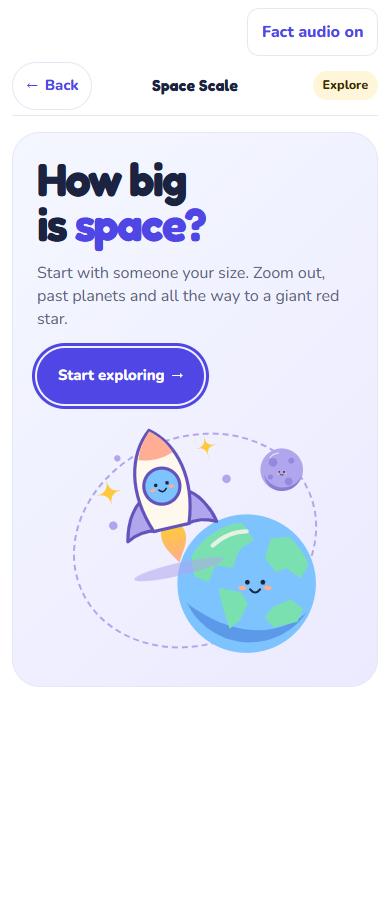
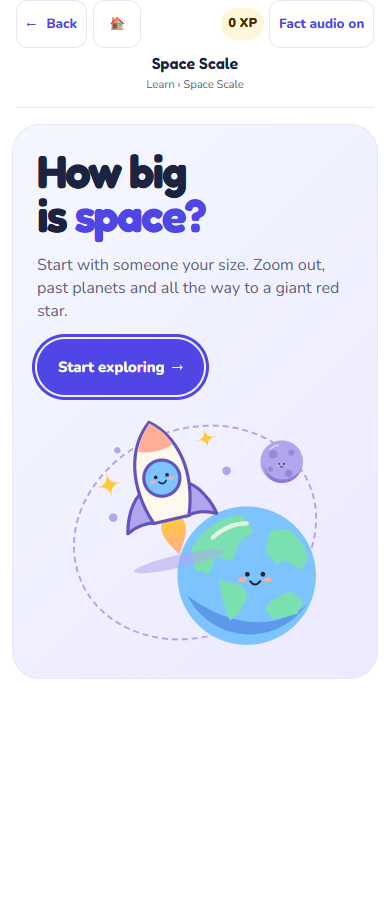
fix(flow): unify game headers and pause mission exit dialogs

diff --git a/src/screens/Mission.tsx b/src/screens/Mission.tsx
@@ -1,4 +1,4 @@
-import { useEffect, useReducer, useRef, useState } from "react";
+import { useEffect, useLayoutEffect, useReducer, useRef, useState } from "react";
 import type { Profile, TurnRequest, TurnResponse } from "../../shared/types";
 import { ActivityHeader } from "../components/ActivityHeader";
 import { Mascot } from "../components/Mascot";
@@ -22,9 +22,11 @@ interface Props {
   session: Session;
   profile: Profile;
   onFinish: (state: MissionState) => void;
+  /** Temporarily suspend play while the host confirms navigation. */
+  navigationPaused?: boolean;
 }
 
-export function Mission({ session, profile, onFinish }: Props) {
+export function Mission({ session, profile, onFinish, navigationPaused = false }: Props) {
   const [state, dispatch] = useReducer(
     (current: MissionState, action: Parameters<typeof advanceMission>[1]) => advanceMission(current, action, session),
     session, (session) => createMission(session, Date.now()),
@@ -33,7 +35,8 @@ export function Mission({ session, profile, onFinish }: Props) {
   const submittedRound = useRef(0);
   const delivered = useRef(false);
   const avatar = useRef<HTMLDivElement>(null);
-  const paused = state.pausedAt !== null;
+  const navigationOwnsPause = useRef(false);
+  const paused = navigationPaused || state.pausedAt !== null;
   const finished = state.phase === "finished";
   const task = session.tasks[state.taskIndex];
   const isHunt = session.mode === "hunt";
@@ -44,6 +47,21 @@ export function Mission({ session, profile, onFinish }: Props) {
   const running = state.phase === "round" && !paused;
   const freezeHold = task.id === "local_lava_freeze" && state.phaseEndsAt - now > state.phaseDuration - 5000;
   const choices = task.riddle;
+
+  useLayoutEffect(() => {
+    if (navigationPaused) {
+      if (state.pausedAt === null && state.phase !== "resolving" && !finished) {
+        navigationOwnsPause.current = true;
+        dispatch({ type: "pause", now: Date.now() });
+      }
+    } else if (navigationOwnsPause.current) {
+      // Only undo our own pause. A manually paused mission stays paused.
+      navigationOwnsPause.current = false;
+      const now = Date.now();
+      setNow(now);
+      dispatch({ type: "resume", now });
+    }
+  }, [navigationPaused, state.pausedAt, state.phase, finished]);
 
   useEffect(() => {
     if (paused || finished) return;

diff --git a/src/games/space/SpaceGame.tsx b/src/games/space/SpaceGame.tsx
@@ -1,4 +1,4 @@
-import { useEffect, useId, useRef, useState } from "react";
+import { useEffect, useRef, useState, type ReactNode } from "react";
 import { ObjectArt, RocketArt } from "./art/ObjectArt";
 import { Journey } from "./Journey";
 import { Quiz } from "./Quiz";
@@ -8,18 +8,19 @@ export interface SpaceGameProps {
   onComplete: (points: number) => void;
   onBack: () => void;
   speak?: (text: string) => Promise<void> | void;
+  /** Optional host header; null when the host renders its header outside the module. */
+  header?: ReactNode;
 }
 
 type Stage = "intro" | "journey" | "quiz" | "result";
 const journeyPoints = 8;
 
-function SpaceActivity({ onBack, onComplete, speak, exploreOnly }: SpaceGameProps & { exploreOnly: boolean }) {
+function SpaceActivity({ onBack, onComplete, speak, header, exploreOnly }: SpaceGameProps & { exploreOnly: boolean }) {
   const [stage, setStage] = useState<Stage>("intro");
   const [correct, setCorrect] = useState(0);
   const [submitted, setSubmitted] = useState(false);
   const submittedRef = useRef(false);
   const resultTitle = useRef<HTMLHeadingElement>(null);
-  const titleId = useId();
   const points = journeyPoints + correct * 4;
 
   useEffect(() => {
@@ -34,14 +35,14 @@ function SpaceActivity({ onBack, onComplete, speak, exploreOnly }: SpaceGameProp
   }
 
   return (
-    <section className="sp-game" aria-labelledby={titleId}>
-      <header className="sp-topbar">
+    <section className="sp-game" aria-label="Space Scale">
+      {header === undefined ? <header className="sp-topbar">
         <button type="button" className="sp-button sp-button-soft" onClick={onBack} aria-label="Back to activities">
           <span aria-hidden="true">←</span> Back
         </button>
-        <div className="sp-title" id={titleId}>Space Scale</div>
+        <div className="sp-title">Space Scale</div>
         <span className="sp-tag">{stage === "journey" ? "Journey" : stage === "quiz" ? "Quiz" : stage === "result" ? "Results" : "Explore"}</span>
-      </header>
+      </header> : header}
       {stage === "intro" && <div className="sp-intro">
         <div className="sp-intro-copy">
           <h1>How big<br />is <em>space?</em></h1>

diff --git a/src/screens/Sketch.tsx b/src/screens/Sketch.tsx
@@ -1,8 +1,7 @@
-import { lazy, Suspense, useContext, useEffect, useState } from "react";
+import { lazy, Suspense, useEffect, useState } from "react";
 import { speakFallback, stopSpeech } from "../audio/engine";
-import { ActivityXp } from "../components/ActivityHeader";
+import { ActivityHeader } from "../components/ActivityHeader";
 import type { SketchGameProps } from "../games/sketch";
-import "./Sketch.css";
 
 const SketchGame = lazy(() => import("../games/sketch").then((module) => ({ default: module.SketchGame })));
 
@@ -13,22 +12,22 @@ function speakClue(text: string) {
 
 /** Host audio and rewards stay outside the independent game module. */
 export function Sketch({ onBack, onComplete }: Pick<SketchGameProps, "onBack" | "onComplete">) {
-  const xp = useContext(ActivityXp);
   const [sound, setSound] = useState(true);
   useEffect(() => () => stopSpeech(), []);
 
   return <main>
-    <div className="sk-host-controls">
-      <span className="xp-chip">{xp ?? 0} XP</span>
-      <button type="button" className="quiet-button" aria-pressed={sound} onClick={() => {
-        stopSpeech();
-        setSound((enabled) => !enabled);
-      }}>{sound ? "Clue audio on" : "Clue audio off"}</button>
+    <div className="shell flow-module-header">
+      <ActivityHeader title="Sketch Artist" onBack={onBack}>
+        <button type="button" className="quiet-button" aria-pressed={sound} onClick={() => {
+          stopSpeech();
+          setSound((enabled) => !enabled);
+        }}>{sound ? "Clue audio on" : "Clue audio off"}</button>
+      </ActivityHeader>
     </div>
     <Suspense fallback={<div className="shell learn-page" role="status">
-      <p>Opening the case…</p><button type="button" className="quiet-button" onClick={onBack}>Back</button>
+      <p>Opening the case…</p>
     </div>}>
-      <SketchGame speak={sound ? speakClue : undefined}
+      <SketchGame header={null} speak={sound ? speakClue : undefined}
         onBack={() => { stopSpeech(); onBack(); }}
         onComplete={(points) => { stopSpeech(); onComplete(points); }} />
     </Suspense>

diff --git a/src/screens/Space.tsx b/src/screens/Space.tsx
@@ -1,5 +1,6 @@
 import { lazy, Suspense, useEffect, useState } from "react";
 import { speakFallback, stopSpeech } from "../audio/engine";
+import { ActivityHeader } from "../components/ActivityHeader";
 import type { SpaceGameProps } from "../games/space";
 
 const SpaceGame = lazy(() => import("../games/space").then(({ SpaceGame }) => ({ default: SpaceGame })));
@@ -15,17 +16,18 @@ export function Space({ exploreOnly, onBack, onComplete }: Pick<SpaceGameProps, 
 
   return (
     <main>
-      <Suspense fallback={<div className="shell learn-page">
-        <p role="status">Opening Space Scale…</p>
-        <button type="button" className="quiet-button" onClick={onBack}>Back</button>
-      </div>}>
-        <div className="sp-host-controls">
+      <div className="shell flow-module-header">
+        <ActivityHeader title="Space Scale" onBack={onBack}>
           <button type="button" className="quiet-button" aria-pressed={sound} onClick={() => {
             stopSpeech();
             setSound((enabled) => !enabled);
           }}>{sound ? "Fact audio on" : "Fact audio off"}</button>
-        </div>
-        <Game speak={sound ? speakFallback : undefined}
+        </ActivityHeader>
+      </div>
+      <Suspense fallback={<div className="shell learn-page">
+        <p role="status">Opening Space Scale…</p>
+      </div>}>
+        <Game header={null} speak={sound ? speakFallback : undefined}
           onBack={() => { stopSpeech(); onBack(); }}
           onComplete={(points) => { stopSpeech(); onComplete(points); }} />
       </Suspense>

diff --git a/src/games/sketch/SketchGame.tsx b/src/games/sketch/SketchGame.tsx
@@ -52,7 +52,7 @@ async function referencePixels(svg: SVGSVGElement | null, width: number, height:
   });
 }
 
-export function SketchGame({ onComplete, onBack, speak }: SketchGameProps) {
+export function SketchGame({ onComplete, onBack, speak, header }: SketchGameProps) {
   const [caseFile, setCaseFile] = useState<CaseFile>(() => chooseCase());
   const [stage, setStage] = useState<Stage>("intro");
   const [clueIndex, setClueIndex] = useState(0);
@@ -163,11 +163,11 @@ export function SketchGame({ onComplete, onBack, speak }: SketchGameProps) {
 
   return (
     <section className="sk-game" aria-label="Sketch Artist">
-      <header className="sk-topbar">
+      {header === undefined ? <header className="sk-topbar">
         <button type="button" className="sk-back" onClick={back}><span aria-hidden="true">←</span> Back</button>
         <span className="sk-wordmark"><span className="sk-mark" aria-hidden="true">✎</span> Sketch Artist</span>
         <span className="sk-age">AGES 6–8</span>
-      </header>
+      </header> : header}
       {stage === "intro" && <div className="sk-intro">
         <div className="sk-intro-copy">
           <p className="sk-eyebrow">LITTLE ARTISTS · BIG MYSTERIES</p>

diff --git a/src/games/space/Journey.tsx b/src/games/space/Journey.tsx
@@ -200,7 +200,7 @@ export function Journey({ onFinish, speak, exploreOnly }: {
           </nav>
           <div className="sp-journey-actions">
             <button className="sp-button sp-button-soft" type="button" aria-disabled={active === 0}
-              onClick={() => step(-1)}><span aria-hidden="true">←</span> Back</button>
+              onClick={() => step(-1)}><span aria-hidden="true">←</span> Previous stop</button>
             <p className="sp-scroll-hint">Scroll or use ↑ ↓</p>
             <button className="sp-button sp-button-primary" type="button" onClick={active === stopCount ? onFinish : () => step(1)}>
               {active === stopCount ? (exploreOnly ? "Finish journey" : "Start quiz") : "Next"} <span aria-hidden="true">→</span>

diff --git a/src/index.css b/src/index.css
@@ -29,6 +29,7 @@
 .flow-summary { display: grid; grid-template-columns: 130px minmax(0, 1fr); align-items: center; gap: 1.5rem; margin-top: 1.5rem; }
 .flow-summary h1 { font-size: clamp(2rem, 5vw, 3.2rem); margin: .35rem 0 .75rem; }
 .flow-header-navigation { display: flex; align-items: center; gap: .4rem; }
+.shell.flow-module-header { padding-bottom: 0; }
 .flow-home-button { min-width: 48px; padding-inline: .6rem; }
 .flow-header-location { min-width: 0; display: grid; gap: .25rem; padding: .7rem 0; }
 .flow-breadcrumb { max-width: 100%; overflow-x: auto; white-space: nowrap; color: var(--muted); font-size: .7rem; line-height: 1.5; scrollbar-width: thin; }

diff --git a/src/App.tsx b/src/App.tsx
@@ -195,7 +195,7 @@ export default function App() {
     }
     if (screen.name === "mission") {
       const { session, profile } = screen;
-      return <Mission key={session.id} session={session} profile={profile} onFinish={(result) => {
+      return <Mission key={session.id} session={session} profile={profile} navigationPaused={pendingNavigation !== null} onFinish={(result) => {
         const memory = result.done ? `Completed ${result.done} rounds in ${session.mode}.` : `Played ${session.mode}.`;
         const updated = rewardActivity(session.id, profile.id, session.mode, result.points, {
           mode: session.mode, memory: result.loreNote || memory,

diff --git a/src/games/sketch/index.ts b/src/games/sketch/index.ts
@@ -1,3 +1,5 @@
+import type { ReactNode } from "react";
+
 export interface SketchGameProps {
   /** Called from the result screen. Points are between 0 and 28. */
   onComplete: (points: number) => void;
@@ -5,6 +7,8 @@ export interface SketchGameProps {
   onBack: () => void;
   /** Optional speech. Without it, all clues remain available as text. */
   speak?: (text: string) => Promise<void> | void;
+  /** Optional host header; null when the host renders its header outside the module. */
+  header?: ReactNode;
 }
 
 export { SketchGame } from "./SketchGame";

diff --git a/src/games/space/space.css b/src/games/space/space.css
@@ -32,12 +32,6 @@
 }
 
 .sp-game *, .sp-game *::before, .sp-game *::after { box-sizing: border-box; }
-.sp-host-controls {
-  display: flex;
-  justify-content: flex-end;
-  width: min(calc(100% - 24px), 950px);
-  margin: 8px auto 0;
-}
 .sp-game h1, .sp-game h2, .sp-game p { margin: 0; }
 .sp-game h1, .sp-game h2, .sp-title {
   font-family: var(--font-heading, ui-rounded, "Trebuchet MS", system-ui, sans-serif);

diff --git a/design/FLOW.md b/design/FLOW.md
@@ -40,7 +40,8 @@
 5. **Learn**
    - Quiz / Memory / Tic-tac-toe → Back возвращает предыдущий экран; Home ведёт в хаб.
    - Ask → вопрос → ответ → **Quick quiz about this** → квиз по теме → Back возвращает **к тому же ответу Ask**, а не к пустой форме. Ответ сохраняется только в памяти компонента; вопросы не добавляются в хранилище профиля.
-   - Sketch Artist по-прежнему доступен только 6–8 и загружается лениво. Его Back подключён к истории приложения; сам модуль не редактировался.
+   - Sketch Artist по-прежнему доступен только 6–8 и загружается лениво. Sketch Artist и Space Scale используют общий ActivityHeader: Back, Home, хлебные крошки, XP и переключатель звука. Заголовок остаётся доступным при загрузке и на всех этапах игры. В самостоятельных превью сохраняются собственные заголовки.
+   - В Space Scale **Previous stop** возвращает к предыдущему объекту внутри путешествия; **Back** в общем заголовке возвращает на предыдущий экран сайта.
 6. **Результат / Next up**
    - Сохраняются XP, общий прогресс и серия дней.
    - **Play again** → новое прохождение той же активности с новым ID; квиз сохраняет тему, миссия — режим и длительность.
@@ -55,6 +56,7 @@
    - Mission, Quiz, Memory и Tic-tac-toe: первые 5 секунд выход свободный; затем Back / Home открывают **Leave this game?**.
    - **Keep playing / Escape** → остаться в текущей игре без сброса; **Leave game** → выполнить запрошенный переход.
    - Модальный `<dialog>` удерживает клавиатурный фокус. Начальный фокус — Keep playing.
+   - В Mission диалог автоматически приостанавливает таймеры, озвучку и музыку. Keep playing / Escape снимают только эту временную паузу: если игрок уже нажал Pause, ручная пауза сохраняется. Время диалога не вычитается из времени миссии и раунда. Leave game выходит без начисления незавершённой награды.
    - Перезагрузка может открыть хаб; профиль и завершённые активности сохраняются как раньше.
 
 ## Решение по «10 min planned»
@@ -67,16 +69,16 @@
 - `ActivityNavigation` передаёт навигацию в существующие заголовки без правки внутренних файлов игр. Back теперь является навигацией, а не командой Pause/End из старого заголовка Mission; отдельные игровые кнопки Pause/End сохранены. Выход через Back не собирает неполученную награду.
 - В памяти остаются только пассивные экраны Ask под его квизом и анкета/настройки под Privacy. Игры с таймерами за другими экранами не хранятся.
 - Для итогов миссии используется новый `MissionSummary.tsx`. Старый экспорт Results в запрещённом `Mission.tsx` не изменён и из App больше не используется.
-- Не менялись worker, audio, voice, game, games, shared/types, content, scripts, package.json и lockfile. Новых зависимостей нет.
+- В первоначальной работе не менялись worker, audio, voice, game, games, shared/types, content, scripts, package.json и lockfile. Последующим запросом разрешены заголовки модулей и автопауза Mission: добавлен необязательный `header?: ReactNode` в контракты игр и `navigationPaused?: boolean` в Mission. Новых зависимостей нет; worker, аудиодвижок, хранилище и расчёт очков не менялись.
 - При rebase сохранён добавленный другим участником **Space Scale**: его карточка, возрастные режимы и lazy-загрузка остались, Back подключён к стеку, после завершения доступен общий Next up. Конфликты разрешались только в разрешённых `App.tsx` и `Home.tsx`.
 
-## Нужны правки в других файлах
+## Завершённые задачи в других файлах
 
-Основной путь работает в разрешённой зоне. Отдельно, с владельцами модулей, можно завершить унификацию:
+Все три ранее отложенные задачи выполнены после расширения разрешённой зоны:
 
-1. **`src/games/sketch/SketchGame.tsx` и `src/games/space/SpaceGame.tsx`**: у этих игр собственные заголовки. Чтобы добавить в них те же крошки и Home без второго заголовка, нужен явный слот/контракт от модулей и правка их оболочек. Сейчас Back работает через общий стек, но внутренние заголовки модулей не менялись.
-2. **`src/screens/Mission.tsx`**: если при открытии Leave this game нужно автоматически приостанавливать игровой таймер, требуется отдельный управляемый pause/resume-контракт. Сейчас подтверждение навигации не изменяет ход раундов; игрок может пользоваться существующей кнопкой Pause. Нельзя безопасно вызывать старый onBack как паузу: при уже включённой паузе он завершает миссию.
-3. Старые browser-check сценарии внутри **`src/games/sketch/`** ищут прежнюю кнопку Parent settings и могут потребовать обновления селекторов на удержание Grown-ups. Эти тесты принадлежат отдельному модулю и не редактировались. Сама игра и проверка её оценки не менялись.
+1. Оболочки Sketch/Space показывают общий заголовок вне Suspense и передают `header={null}` в модуль, исключая дублирование. Без этого prop модуль показывает прежний самостоятельный заголовок. Игры по-прежнему не импортируют компоненты сайта.
+2. `App.tsx` передаёт Mission `navigationPaused` на время подтверждения выхода. Mission использует существующие pause/resume-действия и помнит, кому принадлежит пауза, сохраняя ручную паузу и оставшееся время.
+3. `src/games/sketch/integration.check.mjs` обновлён под Grown-ups и общий заголовок. `src/screens/navigation.check.mjs` проверяет заголовки, выход при загрузке, оба возрастных режима Space и автопаузу. Дополнительный сценарий `flow.check.mjs` использует новый Back в Space.
 
 ## Проверка
 
@@ -92,10 +94,13 @@ npm run check-content
 
 ```sh
 node src/screens/flow.check.mjs
+node src/screens/navigation.check.mjs
 # Дополнительные проверки Privacy, прокрутки, Memory/Tic-tac-toe и Escape:
 # выставить FLOW_EXTRA_ONLY=1, затем запустить ту же команду
 ```
 
 Все семь запрошенных сценариев пройдены на **390 и 1280 px**. Дополнительно проверены Enter/Space, отмена короткого удержания, восстановление ответа Ask, новый ID повторной игры, сохранение возраста/времени, возврат из ролика в каталог, Escape, перезагрузка и прежняя позиция прокрутки. На проверенных экранах нет горизонтальной прокрутки, каждый доступный button/link достигается реальными нажатиями Tab. Снимки: `design/screens/flow-*.png`; отчёты: `flow-verification.json` и `flow-navigation-extra.json`.
+
+Дополнение: `flow-navigation-completion.json` и снимки `flow-sketch-header-*`, `flow-space-header-*`, `flow-mission-autopause-*`. Проверяется пауза Scavenger Hunt и стартового отсчёта Floor is Lava с 30 секундами ожидания на управляемых часах браузера, восстановление таймеров, сохранение ручной паузы, Back/Home без награды и запуск новой неприостановленной миссии. Старые проверки standalone Sketch, PNG, touch и интеграции также запускаются через существующий внешний Playwright.
 
 Для воспроизводимости браузерный тест подставляет ответ FAQ для `/api/ask` и простую страницу в iframe видео. Проверены переходы и UI, а не внешняя модель/YouTube. Физический iPhone не проверялся.

diff --git a/src/games/sketch/INTEGRATION.md b/src/games/sketch/INTEGRATION.md
@@ -4,7 +4,7 @@ Sketch Artist is now connected to the site's Learn section for ages 6–8. The g
 
 1. `Activity` in `shared/types.ts` includes `"sketch"`. The game's props do not import the shared type.
 2. `src/App.tsx` has a `sketch` screen with a unique session ID, age checks on launch and render, and `earn(id, "sketch", points)` on completion. Back returns to the activity hub without awarding XP.
-3. `src/screens/Sketch.tsx` loads the game with `React.lazy` and `Suspense`. The game's CSS is in a separate lazy asset. The loading state includes a working Back button.
+3. `src/screens/Sketch.tsx` loads the game with `React.lazy` and `Suspense`. The game's CSS is in a separate lazy asset. The wrapper renders the shared `ActivityHeader` outside Suspense, with Back, Home, breadcrumb, XP and audio control, and passes `header={null}` to avoid a duplicate module header. Navigation stays available while loading. Without the optional `header` prop, standalone previews retain their original header.
 4. The wrapper supplies a stable speech callback using `stopSpeech()` then `speakFallback(text)`. It stops speech on replacement, mute, Back, Done and unmount. A per-game **Clue audio on/off** control omits `speak` when muted; XP is shown from the host's existing context. No shared sound preference exists in the current profile format.
 5. `src/screens/Home.tsx` uses lightweight `sketchGameMeta` from `meta.ts` for the Learn card and age eligibility. `index.ts` re-exports the same metadata to preserve the public API. The barrel is not eagerly imported for the card.
 6. `npm run check-sketch` runs the pure Node scoring checks. No dependencies or lockfile changes were required. There is no existing repository CI workflow; include this command if CI is added later.
@@ -26,6 +26,7 @@ interface SketchGameProps {
   onComplete: (points: number) => void; // 0–28, after the result screen
   onBack: () => void;
   speak?: (text: string) => Promise<void> | void;
+  header?: ReactNode; // optional replacement; null when rendered by the host outside the module
 }
 ```
 
